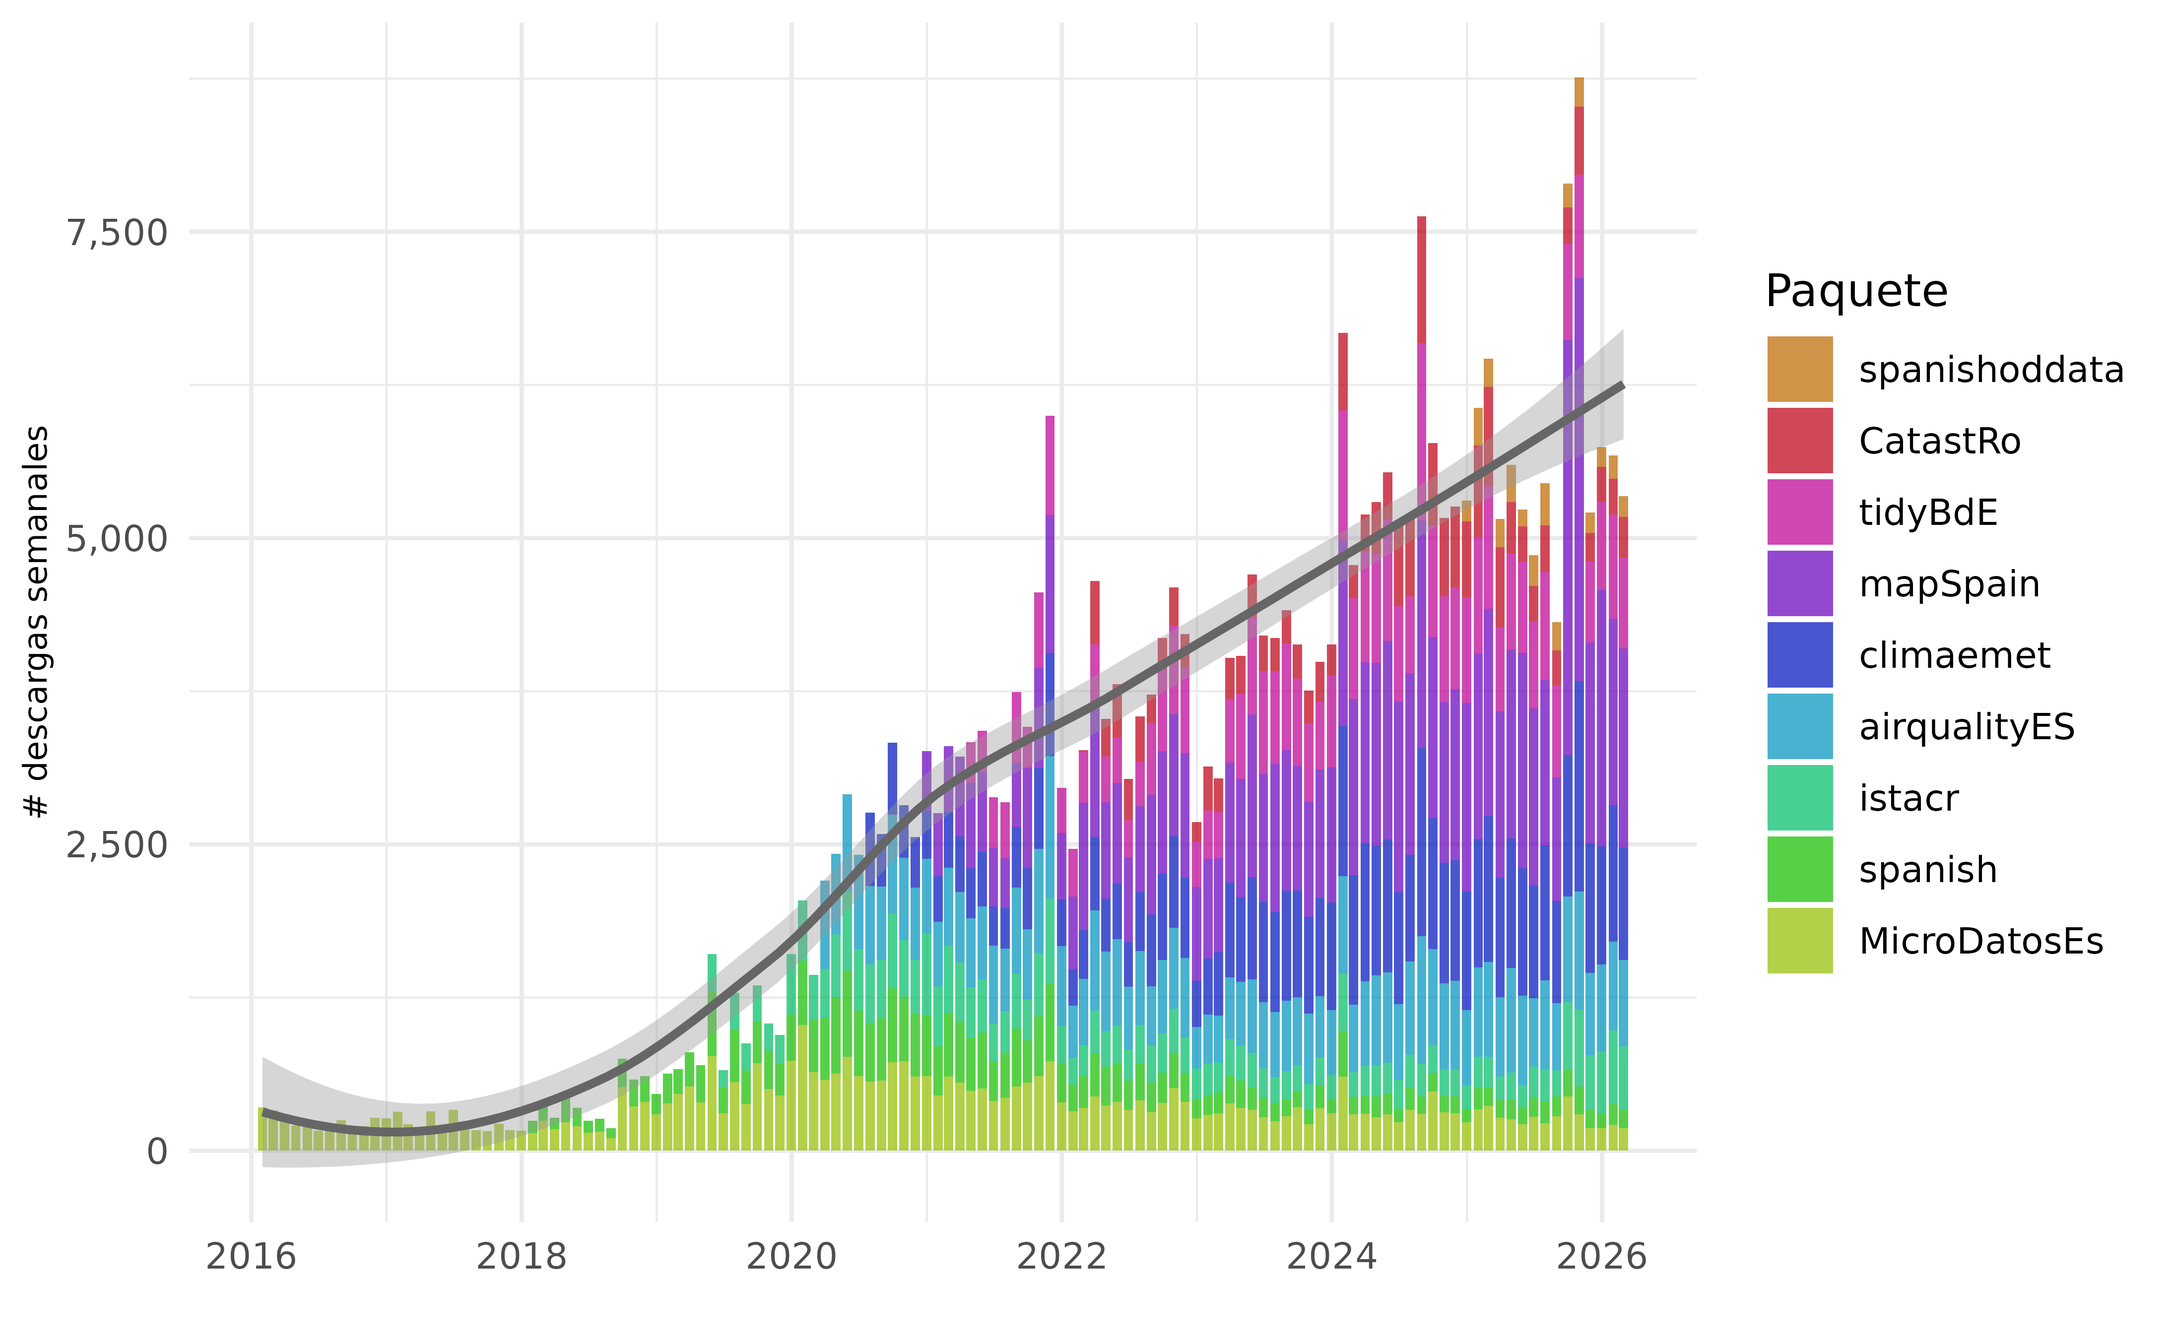
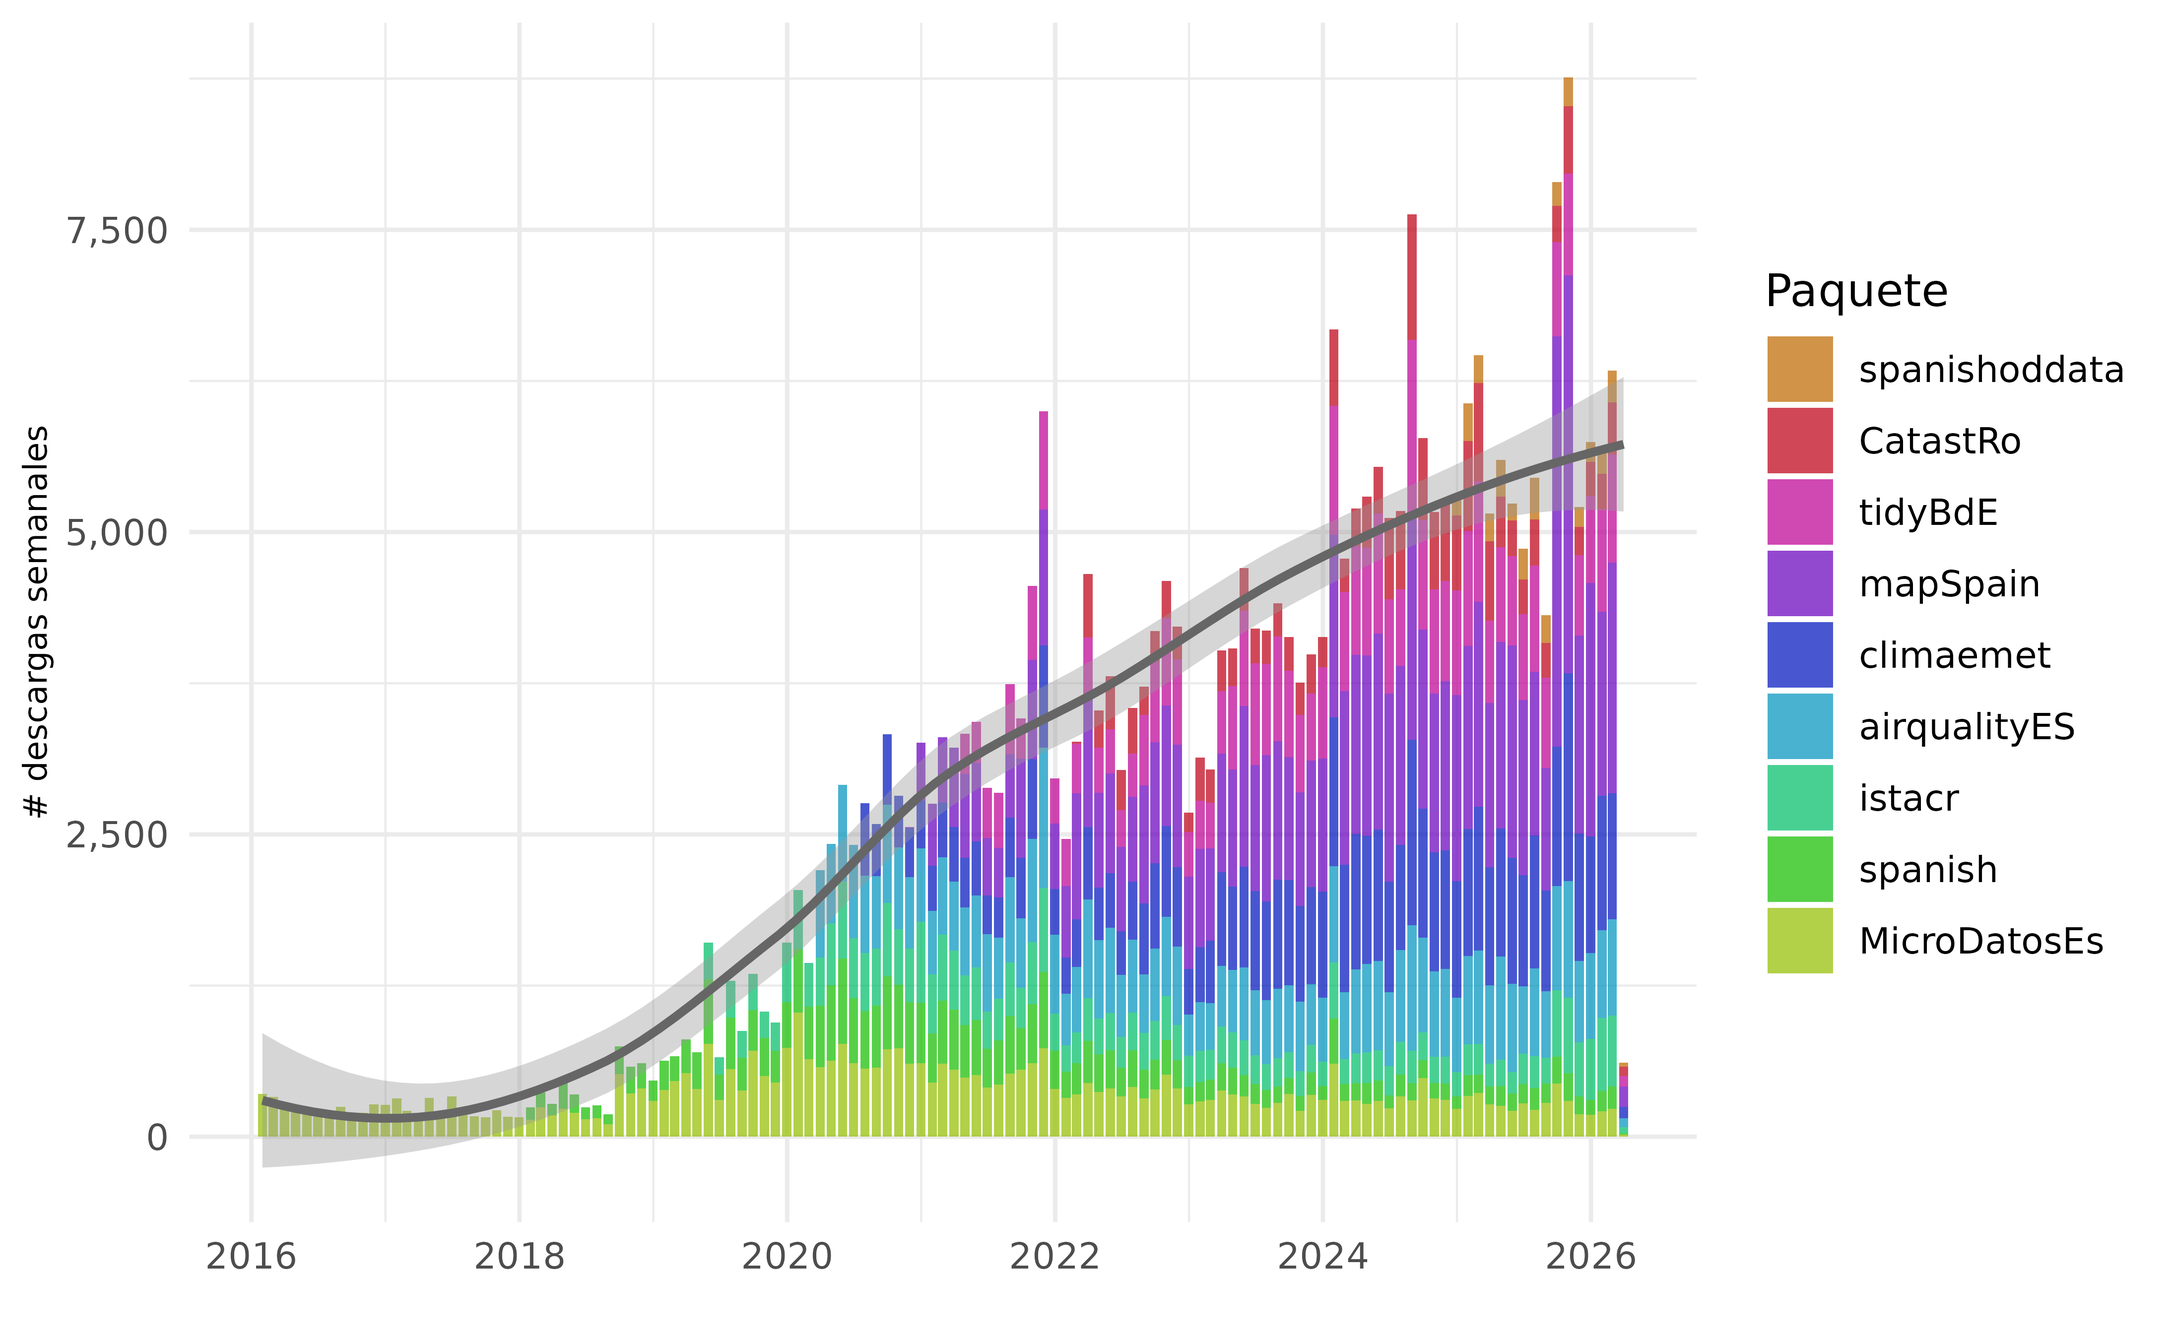
Built site for rostemplate@0.2.0.9000: fa6a80e

diff --git a/articles/descargas.html b/articles/descargas.html
@@ -89,7 +89,7 @@
 
     
     
-<p><em>Fecha de actualización: 26 feb 2026</em></p>
+<p><em>Fecha de actualización: 05 mar 2026</em></p>
 <div class="section level2">
 <h2 id="en-cran">En CRAN<a class="anchor" aria-label="anchor" href="#en-cran"></a>
 </h2>
@@ -108,7 +108,7 @@
 <h3 id="datos-sobre-descargas">Datos sobre descargas<a class="anchor" aria-label="anchor" href="#datos-sobre-descargas"></a>
 </h3>
 <div class="reactable html-widget html-fill-item" id="cran-dwn" style="width:auto;height:auto;"></div>
-<script type="application/json" data-for="cran-dwn">{"x":{"tag":{"name":"Reactable","attribs":{"data":{"paquete":["mapSpain","climaemet","tidyBdE","airqualityES","CatastRo","MicroDatosEs","istacr","spanish","spanishoddata"],"en CRAN desde":["2020-11-30","2020-07-07","2021-04-08","2020-02-29","2022-02-28","2013-10-22","2019-05-03","2018-01-08","2024-12-18"],"Versión en CRAN":["2026-01-17","2026-01-11","2026-01-14","2020-02-29","2026-02-23","2023-11-24","2025-09-04","2019-05-10","2026-02-24"],"media diaria":[38.9,25.1,22.4,21.5,13.5,12.1,11.3,9,7.7],"último dia":[99,32,25,13,38,23,28,15,16],"última semana":[500,255,196,183,116,70,154,50,53],"último mes":[1953,1129,904,850,390,231,627,179,210],"último año":[22223,12951,9245,8791,4419,3047,4574,2004,2645]},"columns":[{"id":"paquete","name":"paquete","type":"character","minWidth":150,"vAlign":"center","footerStyle":{"fontWeight":"bold"},"cell":[{"name":"div","attribs":{},"children":[{"name":"div","attribs":{"style":{"fontWeight":"bold"}},"children":[{"name":"a","attribs":{"href":"https://CRAN.R-project.org/package=mapSpain","target":"_blank"},"children":["mapSpain"]}]},{"name":"div","attribs":{"style":{"fontSize":"75%"}},"children":[{"name":"img","attribs":{"src":"https://badges.cranchecks.info/worst/mapSpain.svg","alt":"mapSpain"},"children":[]}]}]},{"name":"div","attribs":{},"children":[{"name":"div","attribs":{"style":{"fontWeight":"bold"}},"children":[{"name":"a","attribs":{"href":"https://CRAN.R-project.org/package=climaemet","target":"_blank"},"children":["climaemet"]}]},{"name":"div","attribs":{"style":{"fontSize":"75%"}},"children":[{"name":"img","attribs":{"src":"https://badges.cranchecks.info/worst/climaemet.svg","alt":"climaemet"},"children":[]}]}]},{"name":"div","attribs":{},"children":[{"name":"div","attribs":{"style":{"fontWeight":"bold"}},"children":[{"name":"a","attribs":{"href":"https://CRAN.R-project.org/package=tidyBdE","target":"_blank"},"children":["tidyBdE"]}]},{"name":"div","attribs":{"style":{"fontSize":"75%"}},"children":[{"name":"img","attribs":{"src":"https://badges.cranchecks.info/worst/tidyBdE.svg","alt":"tidyBdE"},"children":[]}]}]},{"name":"div","attribs":{},"children":[{"name":"div","attribs":{"style":{"fontWeight":"bold"}},"children":[{"name":"a","attribs":{"href":"https://CRAN.R-project.org/package=airqualityES","target":"_blank"},"children":["airqualityES"]}]},{"name":"div","attribs":{"style":{"fontSize":"75%"}},"children":[{"name":"img","attribs":{"src":"https://badges.cranchecks.info/worst/airqualityES.svg","alt":"airqualityES"},"children":[]}]}]},{"name":"div","attribs":{},"children":[{"name":"div","attribs":{"style":{"fontWeight":"bold"}},"children":[{"name":"a","attribs":{"href":"https://CRAN.R-project.org/package=CatastRo","target":"_blank"},"children":["CatastRo"]}]},{"name":"div","attribs":{"style":{"fontSize":"75%"}},"children":[{"name":"img","attribs":{"src":"https://badges.cranchecks.info/worst/CatastRo.svg","alt":"CatastRo"},"children":[]}]}]},{"name":"div","attribs":{},"children":[{"name":"div","attribs":{"style":{"fontWeight":"bold"}},"children":[{"name":"a","attribs":{"href":"https://CRAN.R-project.org/package=MicroDatosEs","target":"_blank"},"children":["MicroDatosEs"]}]},{"name":"div","attribs":{"style":{"fontSize":"75%"}},"children":[{"name":"img","attribs":{"src":"https://badges.cranchecks.info/worst/MicroDatosEs.svg","alt":"MicroDatosEs"},"children":[]}]}]},{"name":"div","attribs":{},"children":[{"name":"div","attribs":{"style":{"fontWeight":"bold"}},"children":[{"name":"a","attribs":{"href":"https://CRAN.R-project.org/package=istacr","target":"_blank"},"children":["istacr"]}]},{"name":"div","attribs":{"style":{"fontSize":"75%"}},"children":[{"name":"img","attribs":{"src":"https://badges.cranchecks.info/worst/istacr.svg","alt":"istacr"},"children":[]}]}]},{"name":"div","attribs":{},"children":[{"name":"div","attribs":{"style":{"fontWeight":"bold"}},"children":[{"name":"a","attribs":{"href":"https://CRAN.R-project.org/package=spanish","target":"_blank"},"children":["spanish"]}]},{"name":"div","attribs":{"style":{"fontSize":"75%"}},"children":[{"name":"img","attribs":{"src":"https://badges.cranchecks.info/worst/spanish.svg","alt":"spanish"},"children":[]}]}]},{"name":"div","attribs":{},"children":[{"name":"div","attribs":{"style":{"fontWeight":"bold"}},"children":[{"name":"a","attribs":{"href":"https://CRAN.R-project.org/package=spanishoddata","target":"_blank"},"children":["spanishoddata"]}]},{"name":"div","attribs":{"style":{"fontSize":"75%"}},"children":[{"name":"img","attribs":{"src":"https://badges.cranchecks.info/worst/spanishoddata.svg","alt":"spanishoddata"},"children":[]}]}]}],"rowHeader":true,"align":"left","sticky":"left"},{"id":"en CRAN desde","name":"en CRAN desde","type":"Date","minWidth":150,"vAlign":"center","footerStyle":{"fontWeight":"bold"}},{"id":"Versión en CRAN","name":"Versión en CRAN","type":"Date","minWidth":150,"vAlign":"center","footerStyle":{"fontWeight":"bold"}},{"id":"media diaria","name":"media diaria","type":"numeric","footer":"161,5","minWidth":150,"vAlign":"center","footerStyle":{"fontWeight":"bold"},"format":{"cell":{"separators":true},"aggregated":{"separators":true}}},{"id":"último dia","name":"último dia","type":"numeric","footer":"289","minWidth":150,"vAlign":"center","footerStyle":{"fontWeight":"bold"},"format":{"cell":{"separators":true},"aggregated":{"separators":true}}},{"id":"última semana","name":"última semana","type":"numeric","footer":"1.577","minWidth":150,"vAlign":"center","footerStyle":{"fontWeight":"bold"},"format":{"cell":{"separators":true},"aggregated":{"separators":true}}},{"id":"último mes","name":"último mes","type":"numeric","footer":"6.473","minWidth":150,"vAlign":"center","footerStyle":{"fontWeight":"bold"},"format":{"cell":{"separators":true},"aggregated":{"separators":true}}},{"id":"último año","name":"último año","type":"numeric","footer":"69.899","minWidth":150,"vAlign":"center","footerStyle":{"fontWeight":"bold"},"format":{"cell":{"separators":true},"aggregated":{"separators":true}}}],"filterable":true,"searchable":true,"showPageSizeOptions":true,"paginationType":"jump","striped":true,"language":{"sortLabel":"Ordena {name}","filterPlaceholder":"","filterLabel":"Filtro {name}","searchPlaceholder":"Búsqueda","searchLabel":"Búsqueda","noData":"Sin resultados","pageNext":"Siguiente","pagePrevious":"Anterior","pageNumbers":"{page} de {pages}","pageInfo":"{rowStart}–{rowEnd} de {rows} registros","pageSizeOptions":"Mostrando {rows}","pageNextLabel":"Siguiente página","pagePreviousLabel":"Página anterior","pageNumberLabel":"Página {page}","pageJumpLabel":"Ir a página","pageSizeOptionsLabel":"Registros por página"},"elementId":"cran-dwn","dataKey":"8ca6a64efc8c8d8a73cf10f00684910a"},"children":[]},"class":"reactR_markup"},"evals":[],"jsHooks":[]}</script>
+<script type="application/json" data-for="cran-dwn">{"x":{"tag":{"name":"Reactable","attribs":{"data":{"paquete":["mapSpain","climaemet","tidyBdE","airqualityES","CatastRo","MicroDatosEs","istacr","spanish","spanishoddata"],"en CRAN desde":["2020-11-30","2020-07-07","2021-04-08","2020-02-29","2022-02-28","2013-10-22","2019-05-03","2018-01-08","2024-12-18"],"Versión en CRAN":["2026-01-17","2026-01-11","2026-01-14","2020-02-29","2026-02-23","2023-11-24","2025-09-04","2019-05-10","2026-02-24"],"media diaria":[39,25.1,22.4,21.5,13.5,12.1,11.3,9,7.8],"último dia":[26,15,6,11,18,8,6,5,6],"última semana":[366,190,207,143,151,35,108,38,108],"último mes":[1854,1017,890,772,474,228,577,180,277],"último año":[22267,12885,9234,8737,4376,3040,4649,2018,2727]},"columns":[{"id":"paquete","name":"paquete","type":"character","minWidth":150,"vAlign":"center","footerStyle":{"fontWeight":"bold"},"cell":[{"name":"div","attribs":{},"children":[{"name":"div","attribs":{"style":{"fontWeight":"bold"}},"children":[{"name":"a","attribs":{"href":"https://CRAN.R-project.org/package=mapSpain","target":"_blank"},"children":["mapSpain"]}]},{"name":"div","attribs":{"style":{"fontSize":"75%"}},"children":[{"name":"img","attribs":{"src":"https://badges.cranchecks.info/worst/mapSpain.svg","alt":"mapSpain"},"children":[]}]}]},{"name":"div","attribs":{},"children":[{"name":"div","attribs":{"style":{"fontWeight":"bold"}},"children":[{"name":"a","attribs":{"href":"https://CRAN.R-project.org/package=climaemet","target":"_blank"},"children":["climaemet"]}]},{"name":"div","attribs":{"style":{"fontSize":"75%"}},"children":[{"name":"img","attribs":{"src":"https://badges.cranchecks.info/worst/climaemet.svg","alt":"climaemet"},"children":[]}]}]},{"name":"div","attribs":{},"children":[{"name":"div","attribs":{"style":{"fontWeight":"bold"}},"children":[{"name":"a","attribs":{"href":"https://CRAN.R-project.org/package=tidyBdE","target":"_blank"},"children":["tidyBdE"]}]},{"name":"div","attribs":{"style":{"fontSize":"75%"}},"children":[{"name":"img","attribs":{"src":"https://badges.cranchecks.info/worst/tidyBdE.svg","alt":"tidyBdE"},"children":[]}]}]},{"name":"div","attribs":{},"children":[{"name":"div","attribs":{"style":{"fontWeight":"bold"}},"children":[{"name":"a","attribs":{"href":"https://CRAN.R-project.org/package=airqualityES","target":"_blank"},"children":["airqualityES"]}]},{"name":"div","attribs":{"style":{"fontSize":"75%"}},"children":[{"name":"img","attribs":{"src":"https://badges.cranchecks.info/worst/airqualityES.svg","alt":"airqualityES"},"children":[]}]}]},{"name":"div","attribs":{},"children":[{"name":"div","attribs":{"style":{"fontWeight":"bold"}},"children":[{"name":"a","attribs":{"href":"https://CRAN.R-project.org/package=CatastRo","target":"_blank"},"children":["CatastRo"]}]},{"name":"div","attribs":{"style":{"fontSize":"75%"}},"children":[{"name":"img","attribs":{"src":"https://badges.cranchecks.info/worst/CatastRo.svg","alt":"CatastRo"},"children":[]}]}]},{"name":"div","attribs":{},"children":[{"name":"div","attribs":{"style":{"fontWeight":"bold"}},"children":[{"name":"a","attribs":{"href":"https://CRAN.R-project.org/package=MicroDatosEs","target":"_blank"},"children":["MicroDatosEs"]}]},{"name":"div","attribs":{"style":{"fontSize":"75%"}},"children":[{"name":"img","attribs":{"src":"https://badges.cranchecks.info/worst/MicroDatosEs.svg","alt":"MicroDatosEs"},"children":[]}]}]},{"name":"div","attribs":{},"children":[{"name":"div","attribs":{"style":{"fontWeight":"bold"}},"children":[{"name":"a","attribs":{"href":"https://CRAN.R-project.org/package=istacr","target":"_blank"},"children":["istacr"]}]},{"name":"div","attribs":{"style":{"fontSize":"75%"}},"children":[{"name":"img","attribs":{"src":"https://badges.cranchecks.info/worst/istacr.svg","alt":"istacr"},"children":[]}]}]},{"name":"div","attribs":{},"children":[{"name":"div","attribs":{"style":{"fontWeight":"bold"}},"children":[{"name":"a","attribs":{"href":"https://CRAN.R-project.org/package=spanish","target":"_blank"},"children":["spanish"]}]},{"name":"div","attribs":{"style":{"fontSize":"75%"}},"children":[{"name":"img","attribs":{"src":"https://badges.cranchecks.info/worst/spanish.svg","alt":"spanish"},"children":[]}]}]},{"name":"div","attribs":{},"children":[{"name":"div","attribs":{"style":{"fontWeight":"bold"}},"children":[{"name":"a","attribs":{"href":"https://CRAN.R-project.org/package=spanishoddata","target":"_blank"},"children":["spanishoddata"]}]},{"name":"div","attribs":{"style":{"fontSize":"75%"}},"children":[{"name":"img","attribs":{"src":"https://badges.cranchecks.info/worst/spanishoddata.svg","alt":"spanishoddata"},"children":[]}]}]}],"rowHeader":true,"align":"left","sticky":"left"},{"id":"en CRAN desde","name":"en CRAN desde","type":"Date","minWidth":150,"vAlign":"center","footerStyle":{"fontWeight":"bold"}},{"id":"Versión en CRAN","name":"Versión en CRAN","type":"Date","minWidth":150,"vAlign":"center","footerStyle":{"fontWeight":"bold"}},{"id":"media diaria","name":"media diaria","type":"numeric","footer":"161,7","minWidth":150,"vAlign":"center","footerStyle":{"fontWeight":"bold"},"format":{"cell":{"separators":true},"aggregated":{"separators":true}}},{"id":"último dia","name":"último dia","type":"numeric","footer":"101","minWidth":150,"vAlign":"center","footerStyle":{"fontWeight":"bold"},"format":{"cell":{"separators":true},"aggregated":{"separators":true}}},{"id":"última semana","name":"última semana","type":"numeric","footer":"1.346","minWidth":150,"vAlign":"center","footerStyle":{"fontWeight":"bold"},"format":{"cell":{"separators":true},"aggregated":{"separators":true}}},{"id":"último mes","name":"último mes","type":"numeric","footer":"6.269","minWidth":150,"vAlign":"center","footerStyle":{"fontWeight":"bold"},"format":{"cell":{"separators":true},"aggregated":{"separators":true}}},{"id":"último año","name":"último año","type":"numeric","footer":"69.933","minWidth":150,"vAlign":"center","footerStyle":{"fontWeight":"bold"},"format":{"cell":{"separators":true},"aggregated":{"separators":true}}}],"filterable":true,"searchable":true,"showPageSizeOptions":true,"paginationType":"jump","striped":true,"language":{"sortLabel":"Ordena {name}","filterPlaceholder":"","filterLabel":"Filtro {name}","searchPlaceholder":"Búsqueda","searchLabel":"Búsqueda","noData":"Sin resultados","pageNext":"Siguiente","pagePrevious":"Anterior","pageNumbers":"{page} de {pages}","pageInfo":"{rowStart}–{rowEnd} de {rows} registros","pageSizeOptions":"Mostrando {rows}","pageNextLabel":"Siguiente página","pagePreviousLabel":"Página anterior","pageNumberLabel":"Página {page}","pageJumpLabel":"Ir a página","pageSizeOptionsLabel":"Registros por página"},"elementId":"cran-dwn","dataKey":"4b1bd07e554909b487658b4134ac8eb5"},"children":[]},"class":"reactR_markup"},"evals":[],"jsHooks":[]}</script>
 </div>
 </div>
 <div class="section level2">

diff --git a/articles/test/quarto-features.html b/articles/test/quarto-features.html
@@ -149,8 +149,8 @@
 </h2>
 <div class="cell">
 <div class="cell-output-display">
-<div class="visual_diff html-widget html-fill-item" id="htmlwidget-a61db00368aad5e3b32f" style="width:100%;height:auto;"></div>
-<script type="application/json" data-for="htmlwidget-a61db00368aad5e3b32f">{"x":{"old":"a\nb\nc\nd\ne\nf\ng\nh\ni\nj\nk\nl\nm\nn\no\np\nq\nr\ns\nt\nu\nv\nw\nx\ny\nz\n","new":"a\nb\nc\nd\ne\nf\ng\nh\ni\nl\nm\nn\no\np\nq\nr\ns\nt\nu\nv\nw\nx\ny\nz\n","filename":"a.txt","typediff":"text"},"evals":[],"jsHooks":[]}</script>
+<div class="visual_diff html-widget html-fill-item" id="htmlwidget-9eb389d30725bb7179c6" style="width:100%;height:auto;"></div>
+<script type="application/json" data-for="htmlwidget-9eb389d30725bb7179c6">{"x":{"old":"a\nb\nc\nd\ne\nf\ng\nh\ni\nj\nk\nl\nm\nn\no\np\nq\nr\ns\nt\nu\nv\nw\nx\ny\nz\n","new":"a\nb\nc\nd\ne\nf\ng\nh\ni\nl\nm\nn\no\np\nq\nr\ns\nt\nu\nv\nw\nx\ny\nz\n","filename":"a.txt","typediff":"text"},"evals":[],"jsHooks":[]}</script>
 </div>
 </div>
 </section><section class="level2"><h2 id="keyboard">Keyboard<a class="anchor" aria-label="anchor" href="#keyboard"></a>

diff --git a/articles/test/widgets.html b/articles/test/widgets.html
@@ -96,7 +96,7 @@
 </h2>
 <p>Test spacing above widget.</p>
 <div class="visual_diff html-widget html-fill-item" id="htmlwidget-ac96cb3ee4656e2e9ec3" style="width:100%;height:auto;"></div>
-<script type="application/json" data-for="htmlwidget-ac96cb3ee4656e2e9ec3">{"x":{"old":"a\nb\nc\nd\ne\nf\ng\nh\ni\nj\nk\nl\nm\nn\no\np\nq\nr\ns\nt\nu\nv\nw\nx\ny\nz\n","new":"a\nb\nc\nd\ne\nf\ng\nh\ni\nl\nm\nn\no\np\nq\nr\ns\nt\nu\nv\nw\nx\ny\nz\n","filename":"file1fe852762f10","typediff":"text"},"evals":[],"jsHooks":[]}</script><p>Test spacing below widget.</p>
+<script type="application/json" data-for="htmlwidget-ac96cb3ee4656e2e9ec3">{"x":{"old":"a\nb\nc\nd\ne\nf\ng\nh\ni\nj\nk\nl\nm\nn\no\np\nq\nr\ns\nt\nu\nv\nw\nx\ny\nz\n","new":"a\nb\nc\nd\ne\nf\ng\nh\ni\nl\nm\nn\no\np\nq\nr\ns\nt\nu\nv\nw\nx\ny\nz\n","filename":"file1fc22491f78d","typediff":"text"},"evals":[],"jsHooks":[]}</script><p>Test spacing below widget.</p>
 </div>
   </main>
 </div>

diff --git a/articles/descargas.md b/articles/descargas.md
@@ -1,6 +1,6 @@
 # Descargas de paquetes de rOpenSpain
 
-*Fecha de actualización: 26 feb 2026*
+*Fecha de actualización: 05 mar 2026*
 
 ## En CRAN
 
